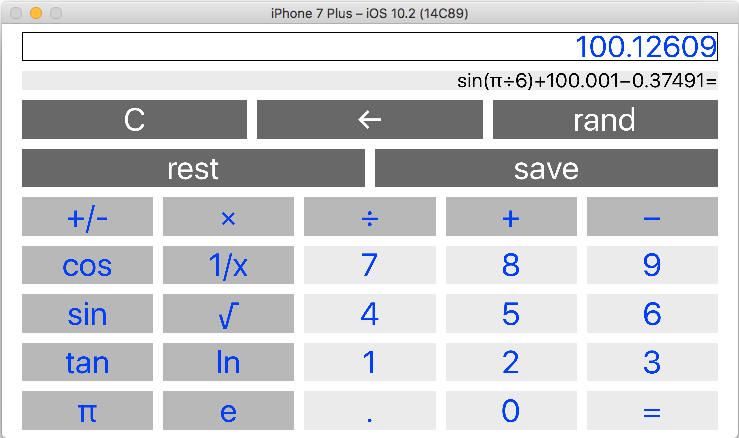
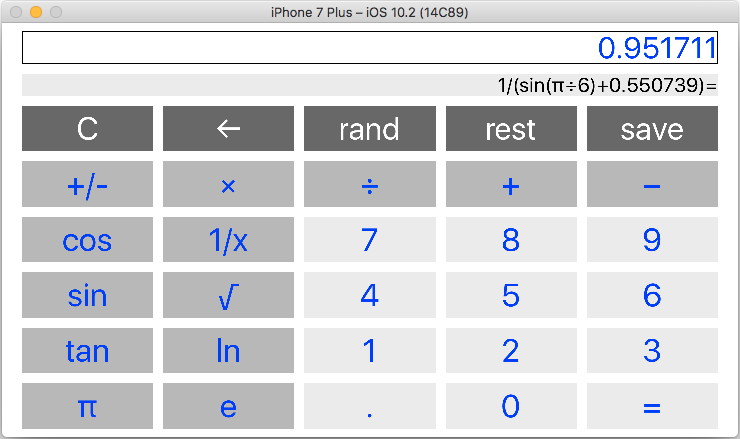
button layout improvements

diff --git a/Calculator/CalcViewController.swift b/Calculator/CalcViewController.swift
@@ -12,11 +12,18 @@ class CalcViewController: UIViewController {
     
     @IBOutlet private weak var display: UILabel!
     @IBOutlet weak var history: UILabel!
+
+    @IBOutlet weak var btnRand: UIButton!
+    @IBOutlet weak var btnRest: UIButton!
+    @IBOutlet weak var btnSave: UIButton!
     
     private var isInTheMiddleOfTheTyping = false
     
     override func viewDidLoad() {
         display.layer.borderWidth = 1.0
+        btnRand.titleLabel!.adjustsFontSizeToFitWidth = true
+        btnRest.titleLabel!.adjustsFontSizeToFitWidth = true
+        btnSave.titleLabel!.adjustsFontSizeToFitWidth = true
     }
     
     @IBAction private func touchDigit(_ sender: UIButton) {
